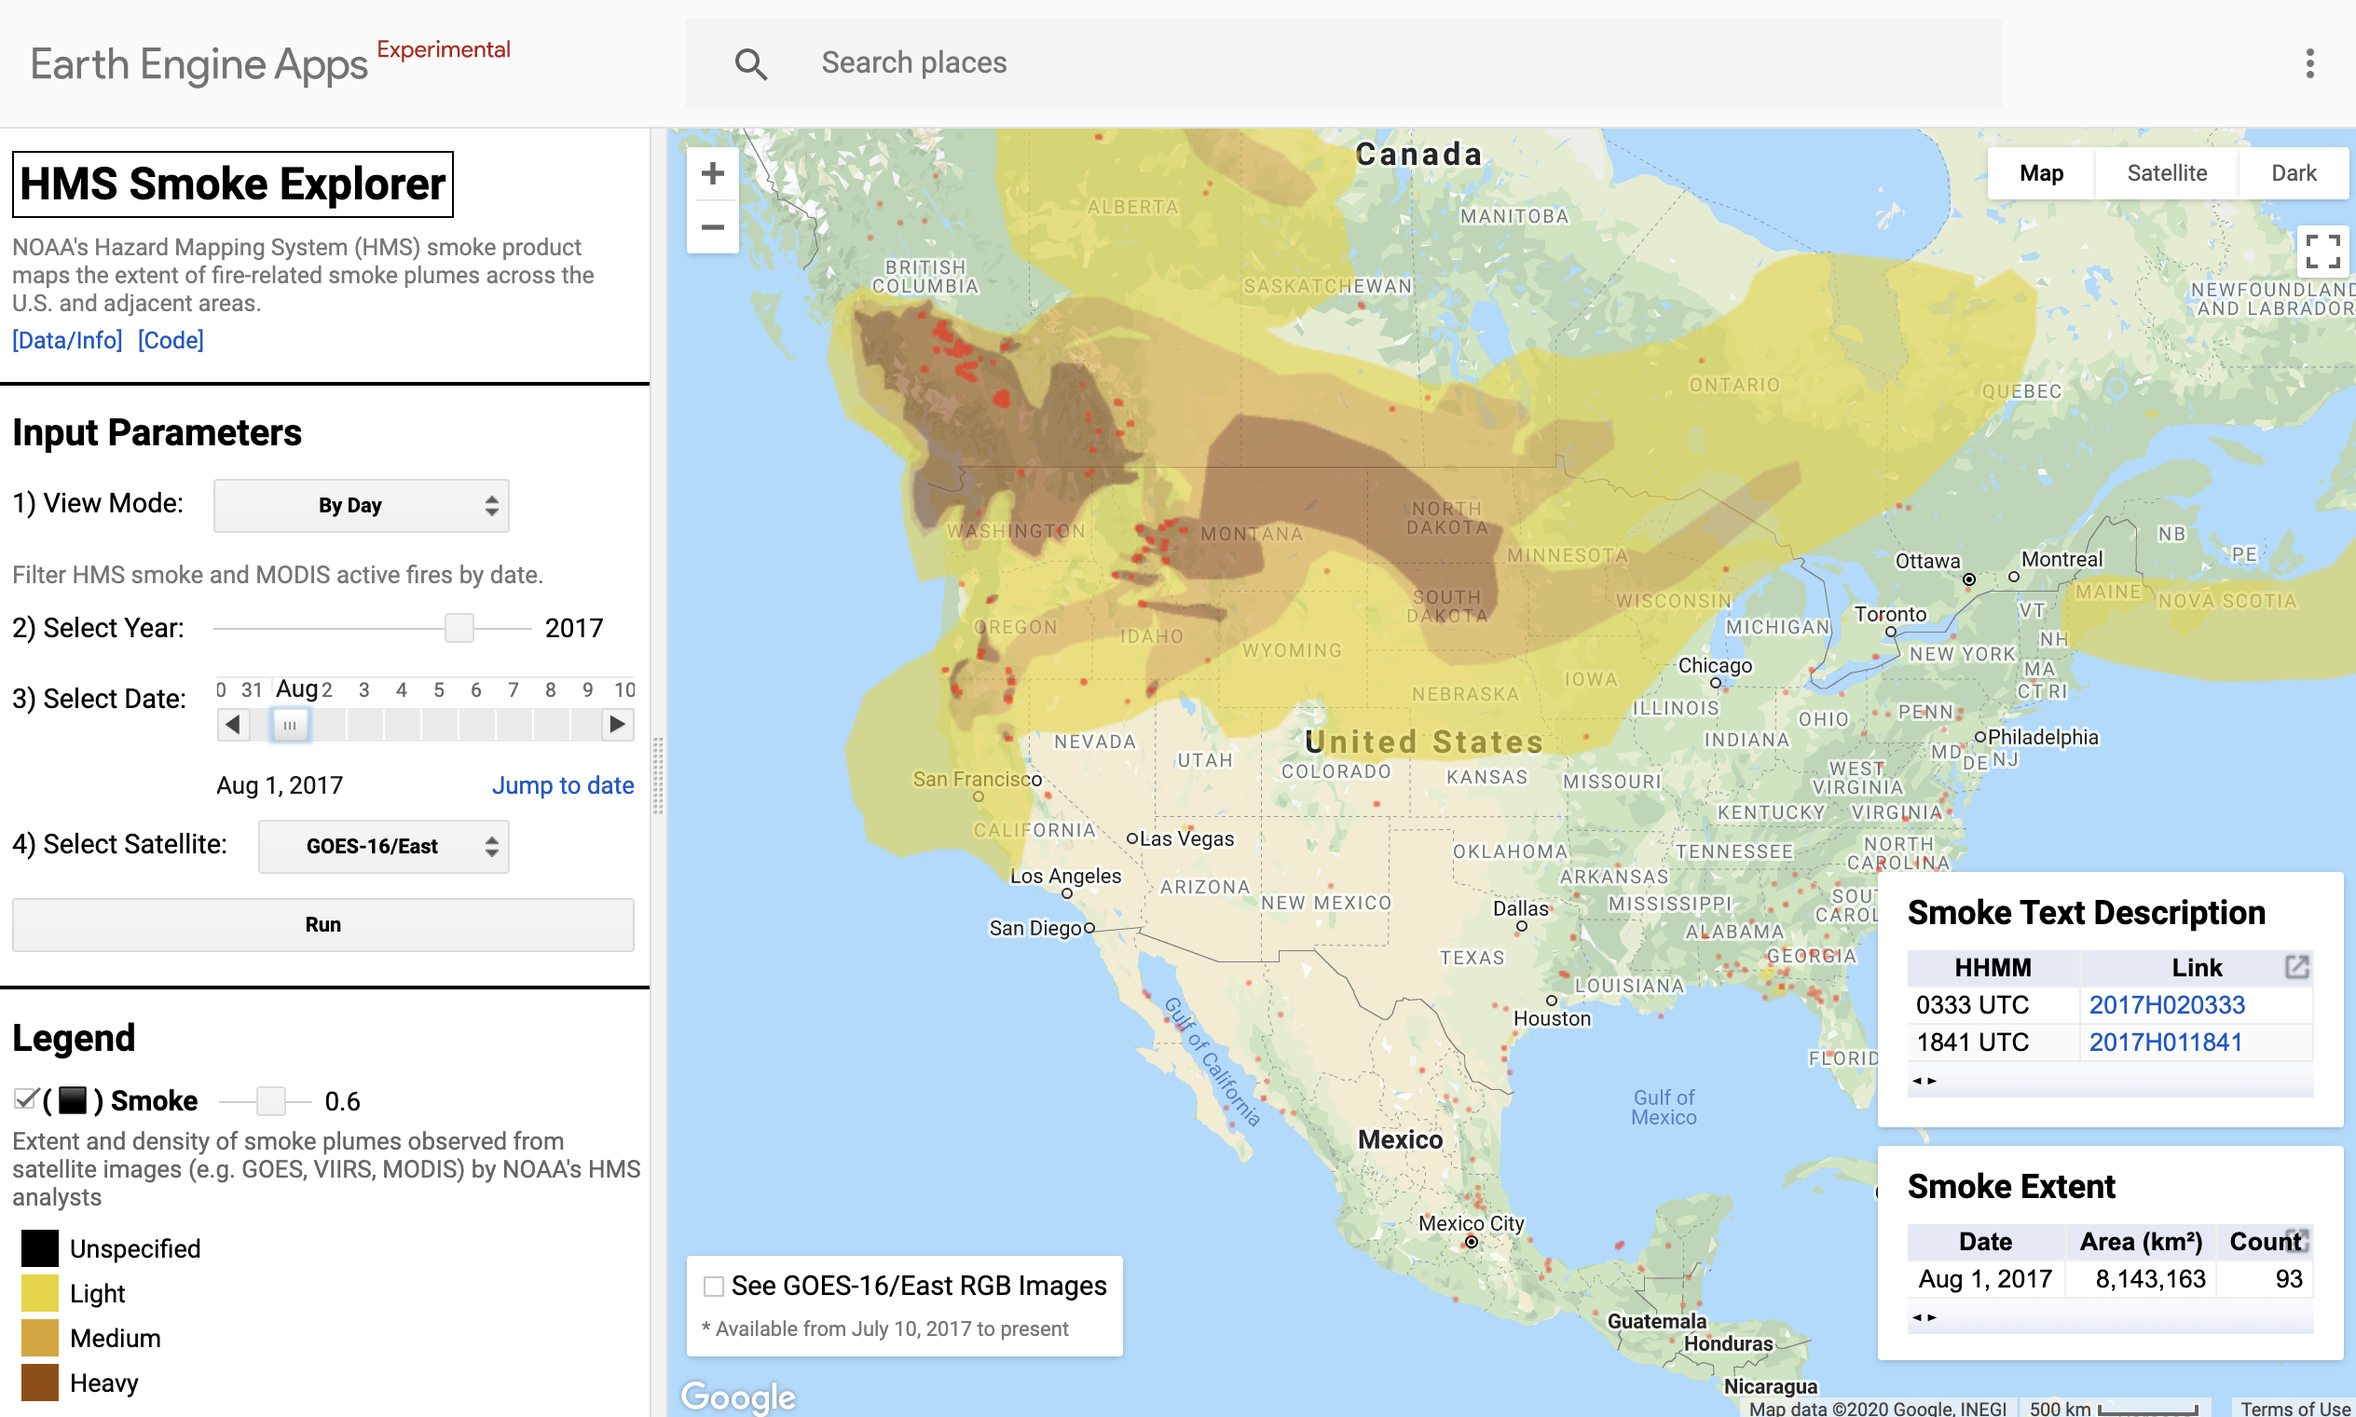
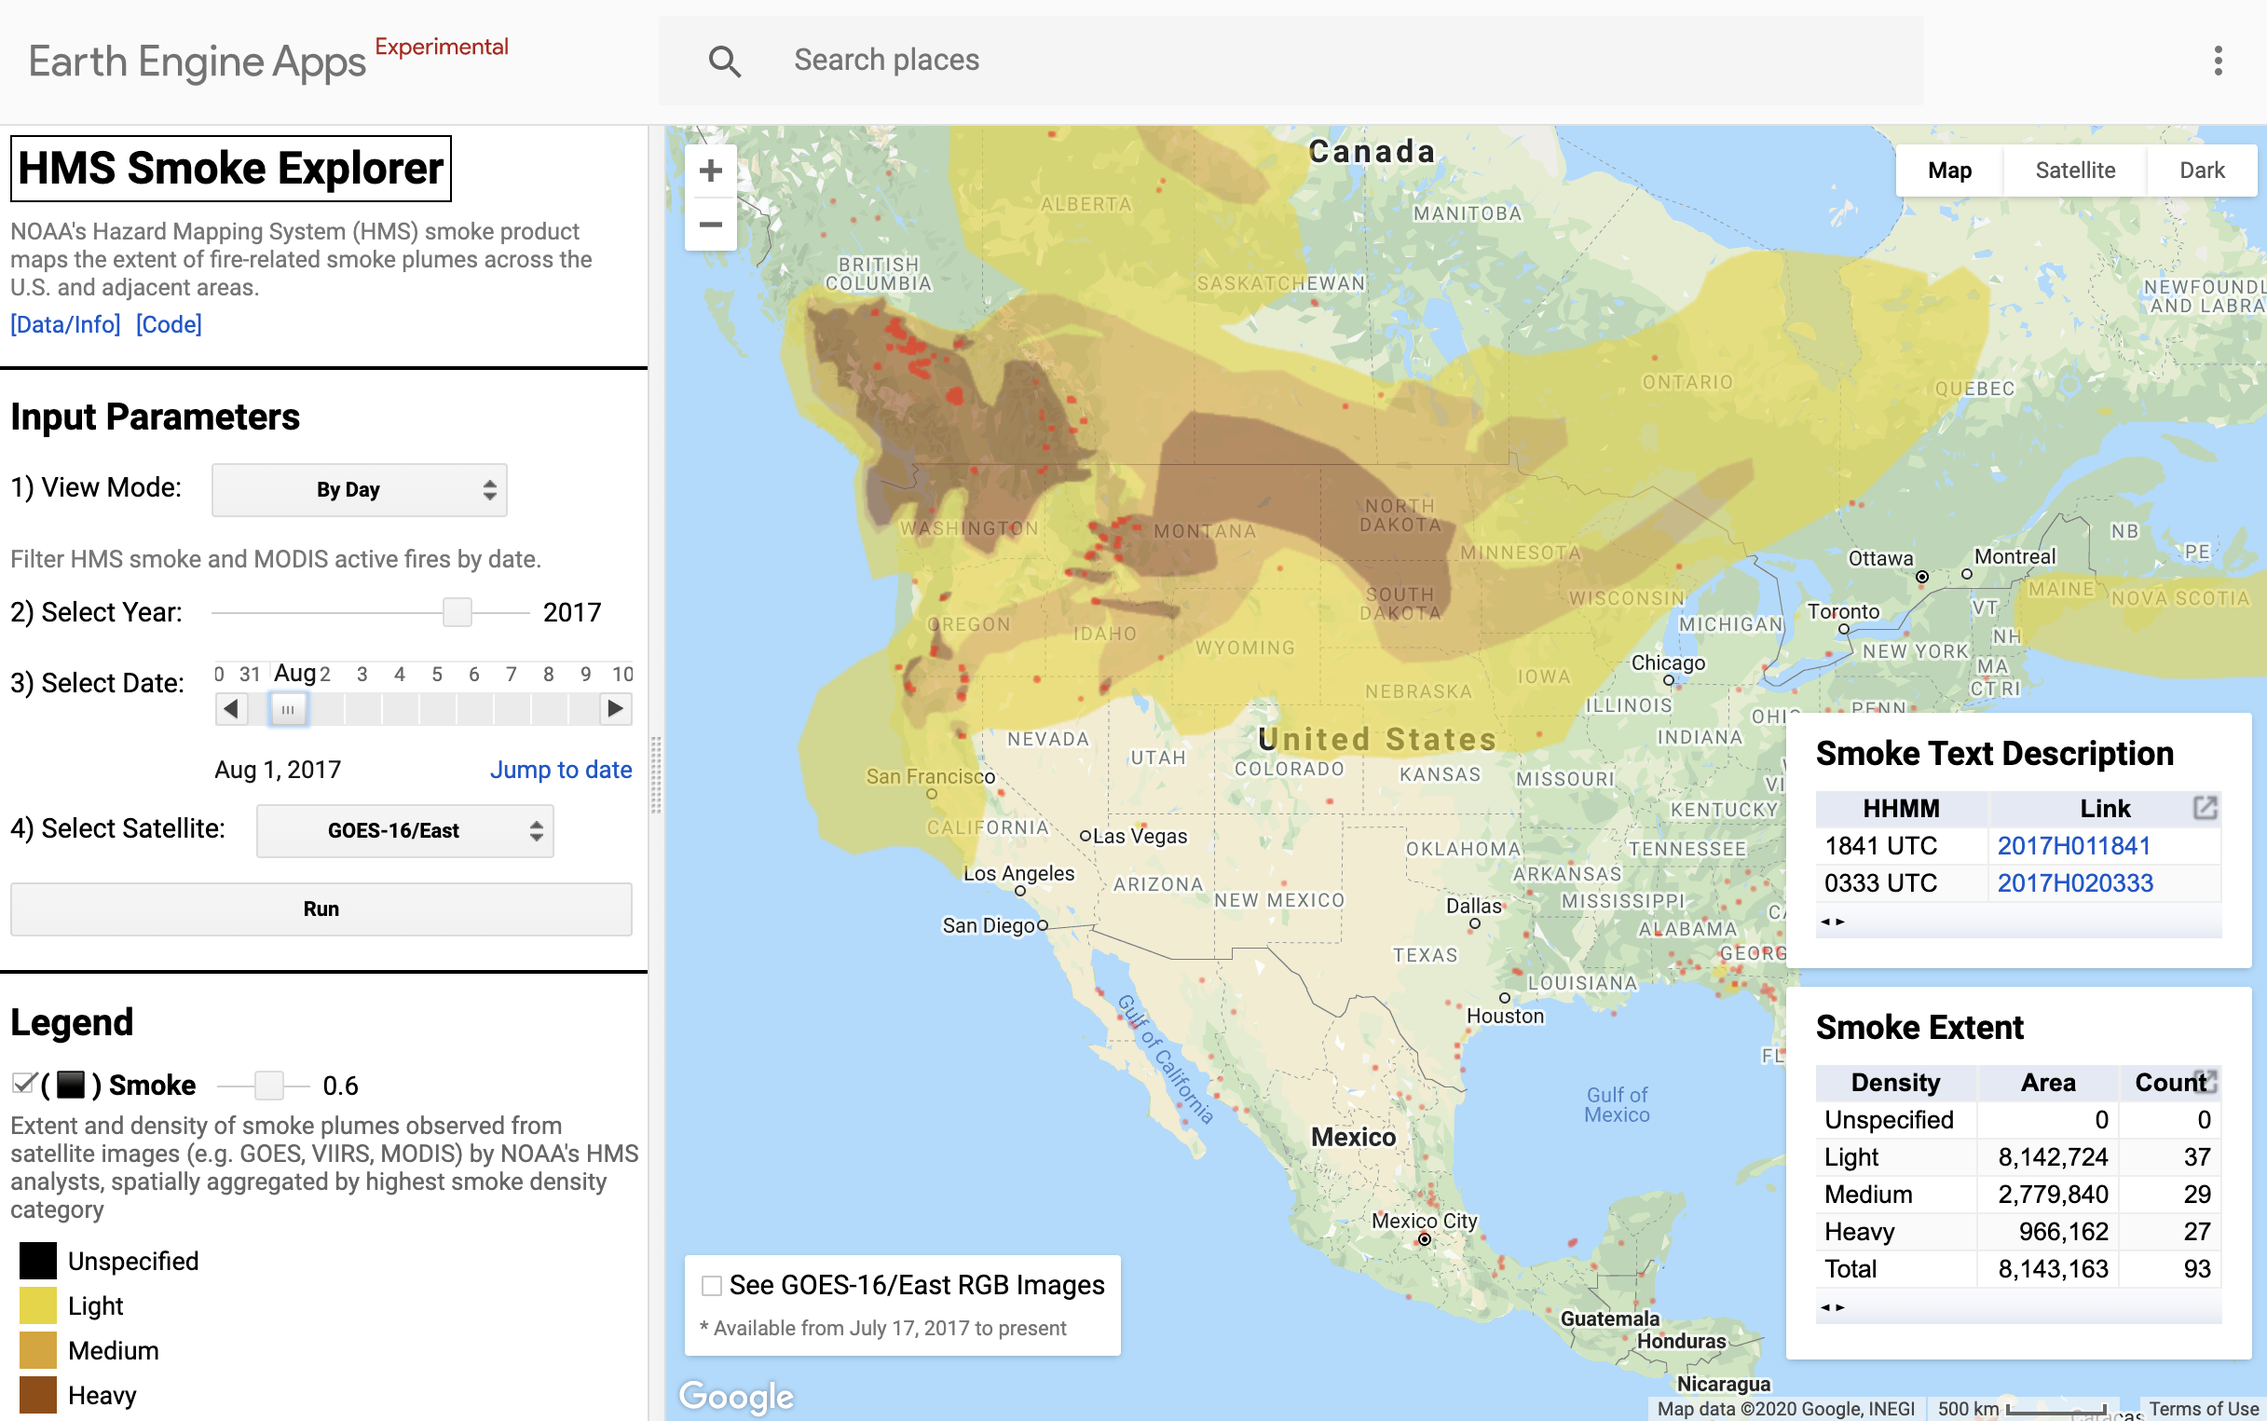
pre-process smoke extent as asset to speed up app, separate smoke extent into density categories, toggle on/off and set transparency of RGB images from panel, correct GOES-17 start date

diff --git a/gee/UI_HMS_Smoke.js b/gee/UI_HMS_Smoke.js
@@ -9,7 +9,7 @@ var firms = ee.ImageCollection("FIRMS"),
 // *****************************************************************
 /*
 // @author Tianjia Liu (tianjialiu@g.harvard.edu)
-// Last updated: September 12, 2020
+// Last updated: September 14, 2020
 
 // Purpose: visualize HMS smoke with MODIS active fires
 // and aerosol optical depth
@@ -28,23 +28,27 @@ var projFolder = 'projects/GlobalFires/';
 var sYear = 2005;
 var eYear = 2019;
 var nrtYear = eYear + 1;
-var nrtEnd = '2020-09-12';
+var nrtEnd = '2020-09-14';
 var maiacEnd = 'Aug 15, 2020';
 
 var region = ee.Geometry.Rectangle([-180,0,0,90],null,false);
 maiac = maiac.filterBounds(region);
 
-// var firmsEnd = ee.Date(firms.filter(ee.Filter.gte('system:time_start',ee.Date('2020-09-09').millis()))
-//   .aggregate_max('system:time_start'));
-// print(firmsEnd);
-
-// var maiacEnd = ee.Date(maiac.filter(ee.Filter.gt('system:time_start',ee.Date('2020-08-15').millis()))
-//   .aggregate_max('system:time_start')).format('MMM d, Y');
-// print(maiacEnd);
-
 // filter HMS smoke
 var smokeLabels = ['Unspecified','Light','Medium','Heavy'];
 var colPal_smoke = ['#000000','#E7D516','#DAA520','#964B00'];
+
+var hmsCatList = {
+  'Unspecified': 0,
+  'Light': 5,
+  'Medium': 16,
+  'Heavy': 27
+};
+
+var applyHMScolor = function(hmsDay,hmsCat,hmsColor) {
+  return hmsDay.filter(ee.Filter.eq('Density',hmsCatList[hmsCat]))
+    .map(function(x) {return x.set('styleProperty', ee.Dictionary({'color': hmsColor}))});
+};
 
 var getHMS = function(year,month,day) {
   var hmsYr = ee.FeatureCollection(projFolder + 'HMS/HMS_' + year);
@@ -52,18 +56,11 @@ var getHMS = function(year,month,day) {
   var hmsDay = hmsYr.filter(ee.Filter.eq('Month',month))
     .filter(ee.Filter.eq('Day',day));
   
-  var hmsDayUnSpec = hmsDay.filter(ee.Filter.eq('Density',0))
-    .map(function(x) {return x.set('styleProperty', ee.Dictionary({'color': colPal_smoke[0]}))});
+  var hmsDayUnSpec = applyHMScolor(hmsDay,'Unspecified',colPal_smoke[0]);
+  var hmsDayLight = applyHMScolor(hmsDay,'Light',colPal_smoke[1]);
+  var hmsDayMedium = applyHMScolor(hmsDay,'Medium',colPal_smoke[2]);
+  var hmsDayHeavy = applyHMScolor(hmsDay,'Heavy',colPal_smoke[3]);
   
-  var hmsDayLight = hmsDay.filter(ee.Filter.eq('Density',5))
-    .map(function(x) {return x.set('styleProperty', ee.Dictionary({'color': colPal_smoke[1]}))});
-
-  var hmsDayMedium = hmsDay.filter(ee.Filter.eq('Density',16))
-    .map(function(x) {return x.set('styleProperty', ee.Dictionary({'color': colPal_smoke[2]}))});
-  
-  var hmsDayHeavy = hmsDay.filter(ee.Filter.eq('Density',27))
-    .map(function(x) {return x.set('styleProperty', ee.Dictionary({'color': colPal_smoke[3]}))});
-
   return hmsDayUnSpec.merge(hmsDayLight)
     .merge(hmsDayMedium).merge(hmsDayHeavy);
 };
@@ -102,12 +99,17 @@ var getAOD = function(year,month,day,band) {
 // filter and calculate GOES RGB
 var goesRGB_ID = {
   'GOES-16/East': 'NOAA/GOES/16/MCMIPF',
-  'GOES-17/West': 'NOAA/GOES/17/MCMIPF',
+  'GOES-17/West': 'NOAA/GOES/17/MCMIPF'
 };
 
 var goesFire_ID = {
   'GOES-16/East': 'NOAA/GOES/16/FDCF',
   'GOES-17/West': 'NOAA/GOES/17/FDCF'
+};
+
+var goes_sDate = {
+  'GOES-16/East': 'July 17, 2017',
+  'GOES-17/West': 'December 4, 2018'
 };
 
 var applyScaleAndOffset = function(image,bandName) {
@@ -122,7 +124,7 @@ var filterGOESday = function(satName,year,month,day) {
   var goesDay = ee.ImageCollection(goesRGB_ID[satName])
     .filterDate(inDate,inDate.advance(1,'day'));
   
-  var goesHr = goesDay.filter(ee.Filter.calendarRange(0,5,'hour'))
+  var goesHr = goesDay.filter(ee.Filter.calendarRange(0,3,'hour'))
     .merge(goesDay.filter(ee.Filter.calendarRange(11,23,'hour')));
     
   goesHr = goesHr.filter(ee.Filter.calendarRange(0,0,'minute'))
@@ -169,62 +171,66 @@ var getGOESrgb = function(satName,dateTime) {
     .blend(goesFire.visualize({palette: 'red', opacity: 0.4}));
 };
 
-// Extent of smoke plume statistics
+// HMS extent
+var hmsExtent = ee.FeatureCollection(projFolder + 'HMS/HMS_Extent');
+
 var getSmokeStats = function(year,month,day) {
-  var hmsYr = ee.FeatureCollection(projFolder + 'HMS/HMS_' + year);
   
-  var hmsDay = hmsYr.filter(ee.Filter.eq('Month',month))
-    .filter(ee.Filter.eq('Day',day));
-  var hmsDayCount = hmsDay.size();
-  var hmsDayArea = hmsDay.union().geometry().area().divide(1e6).round();
+  var yyyymmdd = ee.Number(year).multiply(1e4)
+    .add(ee.Number(month).multiply(1e2)).add(day);
     
+  var hmsDayExtent = hmsExtent.filter(ee.Filter.eq('YYYYMMDD',yyyymmdd));
+  
   var smokeExtentTitle = ui.Label('Smoke Extent',
     {fontWeight:'bold', fontSize: '18px', margin: '3px 8px 2px 8px'});
   
-  var smokeExtent = ui.Chart.feature.byFeature(
-    ee.Feature(null,{Date: ee.Date.fromYMD(year,month,day),
-      'Area (km²)': hmsDayArea, Count: hmsDayCount}),
-      'Date', ['Area (km²)','Count']
+  hmsDayExtent = ee.List(['Unspecified','Light','Medium','Heavy','Total'])
+    .map(function(hmsCat) {return hmsDayExtent.filter(ee.Filter.eq('Density',hmsCat)).first()});
+  hmsDayExtent = ee.FeatureCollection(hmsDayExtent);
+  
+  var smokeExtent = ui.Chart.feature.byFeature(hmsDayExtent,
+      'Density', ['Area','Count']
     ).setChartType('Table');
   
   return ui.Panel({
     widgets: [smokeExtentTitle,smokeExtent],
     style: {
       width: '250px',
-      height: '115px',
+      height: '200px',
       position: 'bottom-right'
     }
   });
 };  
 
 // HMS smoke duration
-var hmsStats = ee.ImageCollection(projFolder + 'HMS/HMS_Stats'); 
+var hmsStats = ee.ImageCollection(projFolder + 'HMS/HMS_Stats');
 
 // Time series chart for HMS smoke plumes
-var getSmokeTSChart = function(year) {
- 
-  var hmsYr = ee.FeatureCollection(projFolder + 'HMS/HMS_' + year);
+var getSmokeTSChart = function(year,hmsCat) {
   
-  var smokeYr = ee.FeatureCollection(ee.List.sequence(1,366,1).map(function(JDay) {
+  var smokeExtYr = hmsExtent.filter(ee.Filter.eq('Year',year));
+  var nDay = ee.Date.fromYMD(year,12,31)
+    .difference(ee.Date.fromYMD(year,1,1),'day').add(1);
     
-    var hmsDay = hmsYr.filter(ee.Filter.eq('JDay',JDay));
+  var smokeExt = ee.FeatureCollection(ee.List.sequence(1,nDay,1).map(function(JDay) {
     
-    var hmsDayArea = hmsDay.aggregate_sum('Area')
-      .divide(hmsDay.size());
+    var hmsDay = smokeExtYr.filter(ee.Filter.eq('JDay',JDay))
+      .filter(ee.Filter.eq('Density',hmsCat)).first();
     
     return ee.Feature(null,{JDay: JDay,
-      Date: ee.Date.fromYMD(year,1,1)
-        .advance(ee.Number(JDay).subtract(1),'day'),
-      Area: hmsDayArea});
+      Date: ee.Date.fromYMD(year,1,1).advance(ee.Number(JDay).subtract(1),'day'),
+      Area: hmsDay.getNumber('Area')});
     }));
   
-  var smokeChart = ui.Chart.feature.byFeature(smokeYr,'Date',['Area'])
+  smokeExt = smokeExt.filter(ee.Filter.gt('Area',0));
+  
+  var smokeChart = ui.Chart.feature.byFeature(smokeExt,'Date',['Area'])
     .setOptions({
       title: 'Smoke Plumes in ' + year,
       titleTextStyle: {fontSize: '13.5'},
       vAxis: {
         format: 'scientific',
-        title: 'Avg. Area (km²/plume)',
+        title: 'Smoke Extent (km²)',
         titleTextStyle: {fontSize: '12'},
       },
       hAxis: {
@@ -235,8 +241,8 @@ var getSmokeTSChart = function(year) {
           max: ee.Date.fromYMD(year,12,31).millis().getInfo()
         },
       },
-      lineWidth: 1,
-      series: {0: {color: '#222'}},
+      lineWidth: 1.5,
+      series: {0: {color: '#333'}},
       legend: {position: 'none'},
       height: '220px',
     });
@@ -268,7 +274,6 @@ var getSmokeText = function(year,month,day) {
     .filter(ee.Filter.eq('Year',year))
     .filter(ee.Filter.eq('Month',month))
     .filter(ee.Filter.eq('Day',day))
-    .sort('HHMM')
     .select(['HHMMstr','HtmlLink'],['HHMM','Link']);
   
   var nLinks = smokeTextDay.size();
@@ -391,7 +396,7 @@ var setTimePanel = function(viewMode) {
     var satSelect = ui.Select({
       items: ['GOES-16/East','GOES-17/West'],
       value: 'GOES-16/East',
-      style: {margin: '3px 75px 5px 8px', stretch: 'horizontal'}
+      style: {margin: '3px 50px 5px 8px', stretch: 'horizontal'}
     });
 
     var satPanel = ui.Panel([satLabel, satSelect], ui.Panel.Layout.Flow('horizontal'), {stretch: 'horizontal'});
@@ -558,10 +563,10 @@ var getLegend = function(map) {
       footDivider,
       ui.Label('Legend',{fontWeight:'bold',fontSize:'20px',margin:'8px 3px 8px 8px'}),
       getLayerCheck(map,symbol.smoke + ' Smoke', true, 2, 0.6,
-        'Extent and density of smoke plumes observed from satellite images (e.g. GOES, VIIRS, MODIS) by NOAA\'s HMS analysts', '6px'),
+        'Extent and density of smoke plumes observed from satellite images (e.g. GOES, VIIRS, MODIS) by NOAA\'s HMS analysts, spatially aggregated by highest smoke density category', '6px'),
       getLegendDiscrete(smokeLabels,colPal_smoke),
       getLayerCheck(map,symbol.fire + ' Active Fires', true, 3, 0.65,
-        'Active fires detected by MODIS aboard the Terra and Aqua satellites', '6px'),
+        'Active fires detected by the MODIS sensor aboard the Terra and Aqua satellites', '6px'),
       ui.Label('Aerosol Optical Depth',{fontWeight:'bold',fontSize:'16px',margin:'2px 3px 0px 8px'}),
       ui.Label('MODIS Terra/Aqua MAIAC Aerosol Optical Depth (AOD)',{fontSize:'13px',color:'#666',margin:'2px 3px 2px 8px'}),
       ui.Label('Note: AOD not yet updated past ' + maiacEnd,{fontSize:'13px',color:'#999',margin:'0px 3px 8px 8px'}),
@@ -655,6 +660,7 @@ runButton.onClick(function() {
   map0.setCenter(-97,38.5,4);
   map0.setControlVisibility({fullscreenControl: false, layerList: false});
   map0.setOptions('Map', {'Dark': baseMap.darkTheme});
+  map0.unlisten();
   
   map1 = ui.Map(); map1.clear();
   map1.style().set({cursor:'crosshair'});
@@ -663,13 +669,8 @@ runButton.onClick(function() {
 
   mapPanel.add(map0);
   
-  map0.clear();
-  map0.setControlVisibility({layerList: false});
-  map0.setOptions('Map', {'Dark': baseMap.darkTheme});
-  map0.setCenter(-97,38.5,4);
-  map0.unlisten();
-  
   if (counter > 1) {
+    controlPanel.remove(controlPanel.widgets().get(6));
     controlPanel.remove(controlPanel.widgets().get(5));
     controlPanel.remove(controlPanel.widgets().get(4));
   }
@@ -710,7 +711,7 @@ runButton.onClick(function() {
     var goesDates = getGOESdates(satName,inYear,inMonth,inDay);
     var satCheckbox = ui.Checkbox({label: 'See ' + satName + ' RGB Images',
       style: {fontSize: '14.5px', position: 'bottom-left'}});
-    var satMessage = ui.Label('* Available from July 10, 2017 to present',
+    var satMessage = ui.Label('* Available from ' + goes_sDate[satName] + ' to present',
       {fontSize: '11px', margin: '0 8px 8px 8px', color: '#777'});
     var satCheckBool = goesDates.size().eq(0).getInfo();
     satCheckbox.setDisabled(satCheckBool);
@@ -746,13 +747,13 @@ runButton.onClick(function() {
 
         mapPanel.add(map_panels);
         map1.clear();
-        map1.setControlVisibility({mapTypeControl: false, fullscreenControl: false});
+        map1.setControlVisibility({mapTypeControl: false, fullscreenControl: false, layerList: false});
         
         var goesRGBcol = ee.ImageCollection(goesDates.map(function(dateTime) {
             return getGOESrgb(satName,dateTime);
           }));
           
-        var goesLabel = ui.Label(satName + ' RGB Images', {fontSize: '14.5px', margin: '0 0 6px 0', fontWeight: 'bold'});
+        var goesLabel = ui.Label(satName + ' RGB Images', {fontSize: '15px', margin: '0 0 6px 0', fontWeight: 'bold'});
         var hrLabel = ui.Label('Select Date/HH:MM (UTC):', {fontSize: '14.5px', margin: '0 8px 0 0'});
         var hrSelect = ui.Select({items: goesDates.getInfo(), placeholder: 'Select a timestamp',
           value: goesDates.get(0).getInfo(),
@@ -770,15 +771,22 @@ runButton.onClick(function() {
         goesButton.onClick(function() {
           
           goesCounter = goesCounter + 1;
+          
           if (goesCounter > 1) {
+            hrPanel.remove(hrPanel.widgets().get(3));
             map1.remove(map1.layers().get(0));
             map1.remove(map1.widgets().get(1));
+          }
+          if (goesCounter >= 1) {
+            var goesCheck = getLayerCheckSimple(map1,'RGB Image', true, 0, 0.88);
+            goesCheck.style().set({margin: '10px 0 -3px -8px', stretch: 'horizontal'});
+            hrPanel.add(goesCheck);
           }
           
           var inDateTime = hrSelect.getValue();
           var goesRGB = getGOESrgb(satName,inDateTime);
           
-          var goesLayer = ui.Map.Layer(goesRGB,{},'RGB',true,1);
+          var goesLayer = ui.Map.Layer(goesRGB,{},'RGB',true,1).setOpacity(0.88);
           map1.layers().set(0, goesLayer);
           
           var zoomBox = ui.Panel({style: {margin: '0'}});
@@ -921,8 +929,26 @@ runButton.onClick(function() {
   
   if (viewMode != 'Summary') {
     // Display times series chart:
-    var tsChart = getSmokeTSChart(inYear);
+    var tsChart = getSmokeTSChart(inYear,'Total');
     controlPanel.add(tsChart);
+    
+    var hmsCatLabel = ui.Label('Select Density:', {fontSize: '14.5px', margin: '8px 8px 8px 20px'});
+    var hmsCatSelect = ui.Select({
+      items: ['Total','Light','Medium','Heavy','Unspecified'],
+      value: 'Total',
+      style: {margin: '3px 65px 5px 8px', stretch: 'horizontal'}
+    });
+    
+    var hmsCatPanel = ui.Panel([hmsCatLabel, hmsCatSelect], ui.Panel.Layout.Flow('horizontal'),
+      {stretch: 'horizontal', margin: '-20px 0 8px 0px'});
+    
+    controlPanel.add(hmsCatPanel);
+    
+    hmsCatSelect.onChange(function(selected) {
+      controlPanel.remove(tsChart);
+      tsChart = getSmokeTSChart(inYear,selected);
+      controlPanel.insert(5,tsChart);
+    });
   }
   
   if (viewMode == 'Summary') {

diff --git a/README.md b/README.md
@@ -12,7 +12,8 @@ The [HMS Smoke Explorer](https://globalfires.earthengine.app/view/hms-smoke) all
 | [FIRMS/MODIS Active Fires](https://developers.google.com/earth-engine/datasets/catalog/FIRMS) | 2000/10-present | 1 km |
 | [MODIS Burned Area](https://developers.google.com/earth-engine/datasets/catalog/MODIS_006_MCD64A1) | 2000/10-present | 500 m |
 | [MODIS MAIAC Aerosol Optical Depth (AOD)](https://developers.google.com/earth-engine/datasets/catalog/MODIS_006_MCD19A2_GRANULES) | 2000/02-present | 1 km |
-| [GOES-16/17](https://developers.google.com/earth-engine/datasets/tags/goes) | 2017/07-present | 2 km |
+| [GOES-16/East](https://developers.google.com/earth-engine/datasets/tags/goes-16) | 2017/07-present | 2 km |
+| [GOES-16/West](https://developers.google.com/earth-engine/datasets/tags/goes-17) | 2018/12-present | 2 km |
 
 ### Updates
 * September 2020: updated HMS to 2020, added option to select GOES-East or GOES-West full disk imagery
